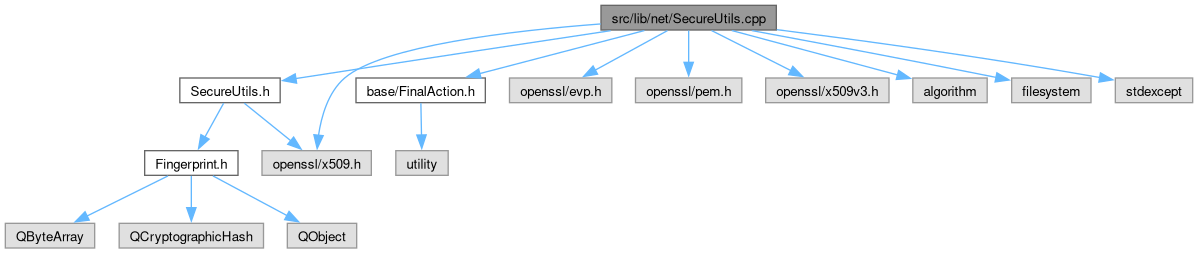
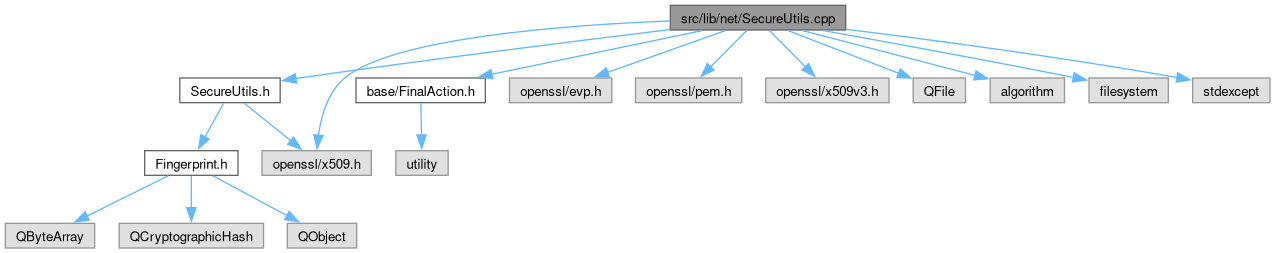
Deploying to gh-pages from @ kenhys/deskflow@babef9c307856c7a965644747549abb823cee12b 🚀

Changed region(s): [[0.0, 0.0, 1.0, 0.996], [0.1544, 0.415, 0.2162, 0.581], [0.4324, 0.2213, 0.4633, 0.249]]

diff --git a/SecureUtils_8cpp.html b/SecureUtils_8cpp.html
@@ -100,6 +100,7 @@ $(function(){initNavTree('SecureUtils_8cpp.html','',''); });
 <code>#include &lt;openssl/pem.h&gt;</code><br />
 <code>#include &lt;openssl/x509.h&gt;</code><br />
 <code>#include &lt;openssl/x509v3.h&gt;</code><br />
+<code>#include &lt;QFile&gt;</code><br />
 <code>#include &lt;algorithm&gt;</code><br />
 <code>#include &lt;filesystem&gt;</code><br />
 <code>#include &lt;stdexcept&gt;</code><br />
@@ -108,25 +109,27 @@ Include dependency graph for SecureUtils.cpp:</div>
 <div class="dyncontent">
 <div class="center"><img src="SecureUtils_8cpp__incl.png" border="0" usemap="#asrc_2lib_2net_2SecureUtils_8cpp" loading="lazy" alt=""/></div>
 <map name="asrc_2lib_2net_2SecureUtils_8cpp" id="asrc_2lib_2net_2SecureUtils_8cpp">
-<area shape="rect" title=" " alt="" coords="601,5,776,30"/>
+<area shape="rect" title=" " alt="" coords="670,5,846,30"/>
 <area shape="rect" href="SecureUtils_8h.html" title=" " alt="" coords="180,78,280,103"/>
-<area shape="poly" title=" " alt="" coords="609,33,300,81,296,81,294,76,299,75,612,29"/>
+<area shape="poly" title=" " alt="" coords="669,32,300,81,296,81,294,76,299,75,671,27"/>
 <area shape="rect" title=" " alt="" coords="262,151,371,175"/>
-<area shape="poly" title=" " alt="" coords="598,25,529,33,454,44,389,59,364,69,346,80,336,92,329,106,321,137,316,134,324,104,332,89,343,76,362,64,387,54,453,39,528,28,603,23"/>
+<area shape="poly" title=" " alt="" coords="668,22,581,29,486,39,402,55,369,67,346,80,336,92,329,106,320,137,316,134,324,104,332,89,343,76,367,62,400,50,485,33,581,23,673,20"/>
 <area shape="rect" href="FinalAction_8h.html" title=" " alt="" coords="356,78,485,103"/>
-<area shape="poly" title=" " alt="" coords="642,31,480,76,479,71,647,30"/>
+<area shape="poly" title=" " alt="" coords="699,31,492,77,491,72,704,30"/>
 <area shape="rect" title=" " alt="" coords="510,78,612,103"/>
-<area shape="poly" title=" " alt="" coords="670,30,596,73,594,68,665,32"/>
+<area shape="poly" title=" " alt="" coords="728,30,608,75,607,70,723,31"/>
 <area shape="rect" title=" " alt="" coords="636,78,742,103"/>
-<area shape="poly" title=" " alt="" coords="690,28,691,64,686,61,687,33"/>
+<area shape="poly" title=" " alt="" coords="749,29,712,69,709,65,744,32"/>
 <area shape="rect" title=" " alt="" coords="766,78,889,103"/>
-<area shape="poly" title=" " alt="" coords="712,28,794,71,788,71,711,33"/>
-<area shape="rect" title=" " alt="" coords="913,78,987,103"/>
-<area shape="poly" title=" " alt="" coords="732,28,901,75,895,75,732,33"/>
-<area shape="rect" title=" " alt="" coords="1012,78,1091,103"/>
-<area shape="poly" title=" " alt="" coords="752,28,999,77,994,78,752,33"/>
-<area shape="rect" title=" " alt="" coords="1115,78,1193,103"/>
-<area shape="poly" title=" " alt="" coords="777,27,924,47,1103,77,1097,78,924,52,777,32"/>
+<area shape="poly" title=" " alt="" coords="770,28,808,68,803,66,769,33"/>
+<area shape="rect" title=" " alt="" coords="913,78,966,103"/>
+<area shape="poly" title=" " alt="" coords="788,28,902,73,896,73,788,33"/>
+<area shape="rect" title=" " alt="" coords="990,78,1064,103"/>
+<area shape="poly" title=" " alt="" coords="803,28,978,75,972,76,802,33"/>
+<area shape="rect" title=" " alt="" coords="1089,78,1168,103"/>
+<area shape="poly" title=" " alt="" coords="824,28,1076,77,1071,78,823,33"/>
+<area shape="rect" title=" " alt="" coords="1193,78,1270,103"/>
+<area shape="poly" title=" " alt="" coords="846,27,997,47,1180,77,1175,78,996,52,846,32"/>
 <area shape="rect" href="Fingerprint_8h.html" title=" " alt="" coords="145,151,238,175"/>
 <area shape="poly" title=" " alt="" coords="226,101,207,139,203,135,222,105"/>
 <area shape="poly" title=" " alt="" coords="245,101,294,141,288,141,244,106"/>

diff --git a/SecureUtils_8h_source.html b/SecureUtils_8h_source.html
@@ -122,11 +122,11 @@ $(function(){initNavTree('SecureUtils_8h_source.html','',''); });
 <div class="ttc" id="aArchNetworkWinsock_8cpp_html_ac765329451135abec74c45e1897abf26"><div class="ttname"><a href="ArchNetworkWinsock_8cpp.html#ac765329451135abec74c45e1897abf26">type</a></div><div class="ttdeci">static int type</div><div class="ttdef"><b>Definition</b> ArchNetworkWinsock.cpp:45</div></div>
 <div class="ttc" id="aFingerprint_8h_html"><div class="ttname"><a href="Fingerprint_8h.html">Fingerprint.h</a></div></div>
 <div class="ttc" id="anamespacedeskflow_html"><div class="ttname"><a href="namespacedeskflow.html">deskflow</a></div><div class="ttdef"><b>Definition</b> DaemonApp.h:18</div></div>
-<div class="ttc" id="anamespacedeskflow_html_a421442748c7922d0c2154f6a2980b772"><div class="ttname"><a href="namespacedeskflow.html#a421442748c7922d0c2154f6a2980b772">deskflow::formatSSLFingerprint</a></div><div class="ttdeci">QString formatSSLFingerprint(const QByteArray &amp;fingerprint, bool enableSeparators)</div><div class="ttdoc">formatSSLFingerprint Format an ssl Fingerprint</div><div class="ttdef"><b>Definition</b> SecureUtils.cpp:40</div></div>
-<div class="ttc" id="anamespacedeskflow_html_a6cb2aaf99f20b081d331c8e1df016dca"><div class="ttname"><a href="namespacedeskflow.html#a6cb2aaf99f20b081d331c8e1df016dca">deskflow::sslCertFingerprint</a></div><div class="ttdeci">Fingerprint sslCertFingerprint(const X509 *cert, QCryptographicHash::Algorithm type)</div><div class="ttdef"><b>Definition</b> SecureUtils.cpp:48</div></div>
-<div class="ttc" id="anamespacedeskflow_html_a99a22f603681c19d78cf0cceb1b9d11b"><div class="ttname"><a href="namespacedeskflow.html#a99a22f603681c19d78cf0cceb1b9d11b">deskflow::generatePemSelfSignedCert</a></div><div class="ttdeci">void generatePemSelfSignedCert(const QString &amp;path, int keyLength)</div><div class="ttdef"><b>Definition</b> SecureUtils.cpp:65</div></div>
-<div class="ttc" id="anamespacedeskflow_html_ad861c9ab209c83520015ecd34ea46d02"><div class="ttname"><a href="namespacedeskflow.html#ad861c9ab209c83520015ecd34ea46d02">deskflow::formatSSLFingerprintColumns</a></div><div class="ttdeci">QString formatSSLFingerprintColumns(const QByteArray &amp;fingerprint)</div><div class="ttdef"><b>Definition</b> SecureUtils.cpp:108</div></div>
-<div class="ttc" id="anamespacedeskflow_html_ae59df1508908bc129534f32f6865d6f0"><div class="ttname"><a href="namespacedeskflow.html#ae59df1508908bc129534f32f6865d6f0">deskflow::generateFingerprintArt</a></div><div class="ttdeci">QString generateFingerprintArt(const QByteArray &amp;rawDigest)</div><div class="ttdef"><b>Definition</b> SecureUtils.cpp:157</div></div>
+<div class="ttc" id="anamespacedeskflow_html_a421442748c7922d0c2154f6a2980b772"><div class="ttname"><a href="namespacedeskflow.html#a421442748c7922d0c2154f6a2980b772">deskflow::formatSSLFingerprint</a></div><div class="ttdeci">QString formatSSLFingerprint(const QByteArray &amp;fingerprint, bool enableSeparators)</div><div class="ttdoc">formatSSLFingerprint Format an ssl Fingerprint</div><div class="ttdef"><b>Definition</b> SecureUtils.cpp:41</div></div>
+<div class="ttc" id="anamespacedeskflow_html_a6cb2aaf99f20b081d331c8e1df016dca"><div class="ttname"><a href="namespacedeskflow.html#a6cb2aaf99f20b081d331c8e1df016dca">deskflow::sslCertFingerprint</a></div><div class="ttdeci">Fingerprint sslCertFingerprint(const X509 *cert, QCryptographicHash::Algorithm type)</div><div class="ttdef"><b>Definition</b> SecureUtils.cpp:49</div></div>
+<div class="ttc" id="anamespacedeskflow_html_a99a22f603681c19d78cf0cceb1b9d11b"><div class="ttname"><a href="namespacedeskflow.html#a99a22f603681c19d78cf0cceb1b9d11b">deskflow::generatePemSelfSignedCert</a></div><div class="ttdeci">void generatePemSelfSignedCert(const QString &amp;path, int keyLength)</div><div class="ttdef"><b>Definition</b> SecureUtils.cpp:66</div></div>
+<div class="ttc" id="anamespacedeskflow_html_ad861c9ab209c83520015ecd34ea46d02"><div class="ttname"><a href="namespacedeskflow.html#ad861c9ab209c83520015ecd34ea46d02">deskflow::formatSSLFingerprintColumns</a></div><div class="ttdeci">QString formatSSLFingerprintColumns(const QByteArray &amp;fingerprint)</div><div class="ttdef"><b>Definition</b> SecureUtils.cpp:110</div></div>
+<div class="ttc" id="anamespacedeskflow_html_ae59df1508908bc129534f32f6865d6f0"><div class="ttname"><a href="namespacedeskflow.html#ae59df1508908bc129534f32f6865d6f0">deskflow::generateFingerprintArt</a></div><div class="ttdeci">QString generateFingerprintArt(const QByteArray &amp;rawDigest)</div><div class="ttdef"><b>Definition</b> SecureUtils.cpp:159</div></div>
 </div><!-- fragment --></div><!-- contents -->
 </div><!-- doc-content -->
 </div><!-- container -->

diff --git a/LogWidget_8h_source.html b/LogWidget_8h_source.html
@@ -123,11 +123,11 @@ $(function(){initNavTree('LogWidget_8h_source.html','',''); });
 <div class="line"><a id="l00026" name="l00026"></a><span class="lineno">   26</span>  QPlainTextEdit *m_textLog = <span class="keyword">nullptr</span>;</div>
 <div class="line"><a id="l00027" name="l00027"></a><span class="lineno">   27</span>};</div>
 </div>
-<div class="ttc" id="aclassLogWidget_html_a218f65bb1b3724579952cfdc2fc89941"><div class="ttname"><a href="classLogWidget.html#a218f65bb1b3724579952cfdc2fc89941">LogWidget::findNext</a></div><div class="ttdeci">void findNext(const QString &amp;text)</div><div class="ttdef"><b>Definition</b> LogWidget.cpp:46</div></div>
-<div class="ttc" id="aclassLogWidget_html_a46782c113d9636b91dec16c178cd40ea"><div class="ttname"><a href="classLogWidget.html#a46782c113d9636b91dec16c178cd40ea">LogWidget::appendLine</a></div><div class="ttdeci">void appendLine(const QString &amp;msg)</div><div class="ttdef"><b>Definition</b> LogWidget.cpp:41</div></div>
+<div class="ttc" id="aclassLogWidget_html_a218f65bb1b3724579952cfdc2fc89941"><div class="ttname"><a href="classLogWidget.html#a218f65bb1b3724579952cfdc2fc89941">LogWidget::findNext</a></div><div class="ttdeci">void findNext(const QString &amp;text)</div><div class="ttdef"><b>Definition</b> LogWidget.cpp:53</div></div>
+<div class="ttc" id="aclassLogWidget_html_a46782c113d9636b91dec16c178cd40ea"><div class="ttname"><a href="classLogWidget.html#a46782c113d9636b91dec16c178cd40ea">LogWidget::appendLine</a></div><div class="ttdeci">void appendLine(const QString &amp;msg)</div><div class="ttdef"><b>Definition</b> LogWidget.cpp:48</div></div>
 <div class="ttc" id="aclassLogWidget_html_aa9299a01d5164aac988df2a52721aa0e"><div class="ttname"><a href="classLogWidget.html#aa9299a01d5164aac988df2a52721aa0e">LogWidget::LogWidget</a></div><div class="ttdeci">LogWidget(QWidget *parent=nullptr)</div><div class="ttdef"><b>Definition</b> LogWidget.cpp:16</div></div>
-<div class="ttc" id="aclassLogWidget_html_acae13034eeee9da0b4fb48f120956027"><div class="ttname"><a href="classLogWidget.html#acae13034eeee9da0b4fb48f120956027">LogWidget::findPrevious</a></div><div class="ttdeci">void findPrevious(const QString &amp;text)</div><div class="ttdef"><b>Definition</b> LogWidget.cpp:57</div></div>
-<div class="ttc" id="aclassLogWidget_html_af0846e295fa2eabafe81234cfa450133"><div class="ttname"><a href="classLogWidget.html#af0846e295fa2eabafe81234cfa450133">LogWidget::scrollToBottom</a></div><div class="ttdeci">void scrollToBottom() const</div><div class="ttdef"><b>Definition</b> LogWidget.cpp:68</div></div>
+<div class="ttc" id="aclassLogWidget_html_acae13034eeee9da0b4fb48f120956027"><div class="ttname"><a href="classLogWidget.html#acae13034eeee9da0b4fb48f120956027">LogWidget::findPrevious</a></div><div class="ttdeci">void findPrevious(const QString &amp;text)</div><div class="ttdef"><b>Definition</b> LogWidget.cpp:64</div></div>
+<div class="ttc" id="aclassLogWidget_html_af0846e295fa2eabafe81234cfa450133"><div class="ttname"><a href="classLogWidget.html#af0846e295fa2eabafe81234cfa450133">LogWidget::scrollToBottom</a></div><div class="ttdeci">void scrollToBottom() const</div><div class="ttdef"><b>Definition</b> LogWidget.cpp:75</div></div>
 </div><!-- fragment --></div><!-- contents -->
 </div><!-- doc-content -->
 </div><!-- container -->